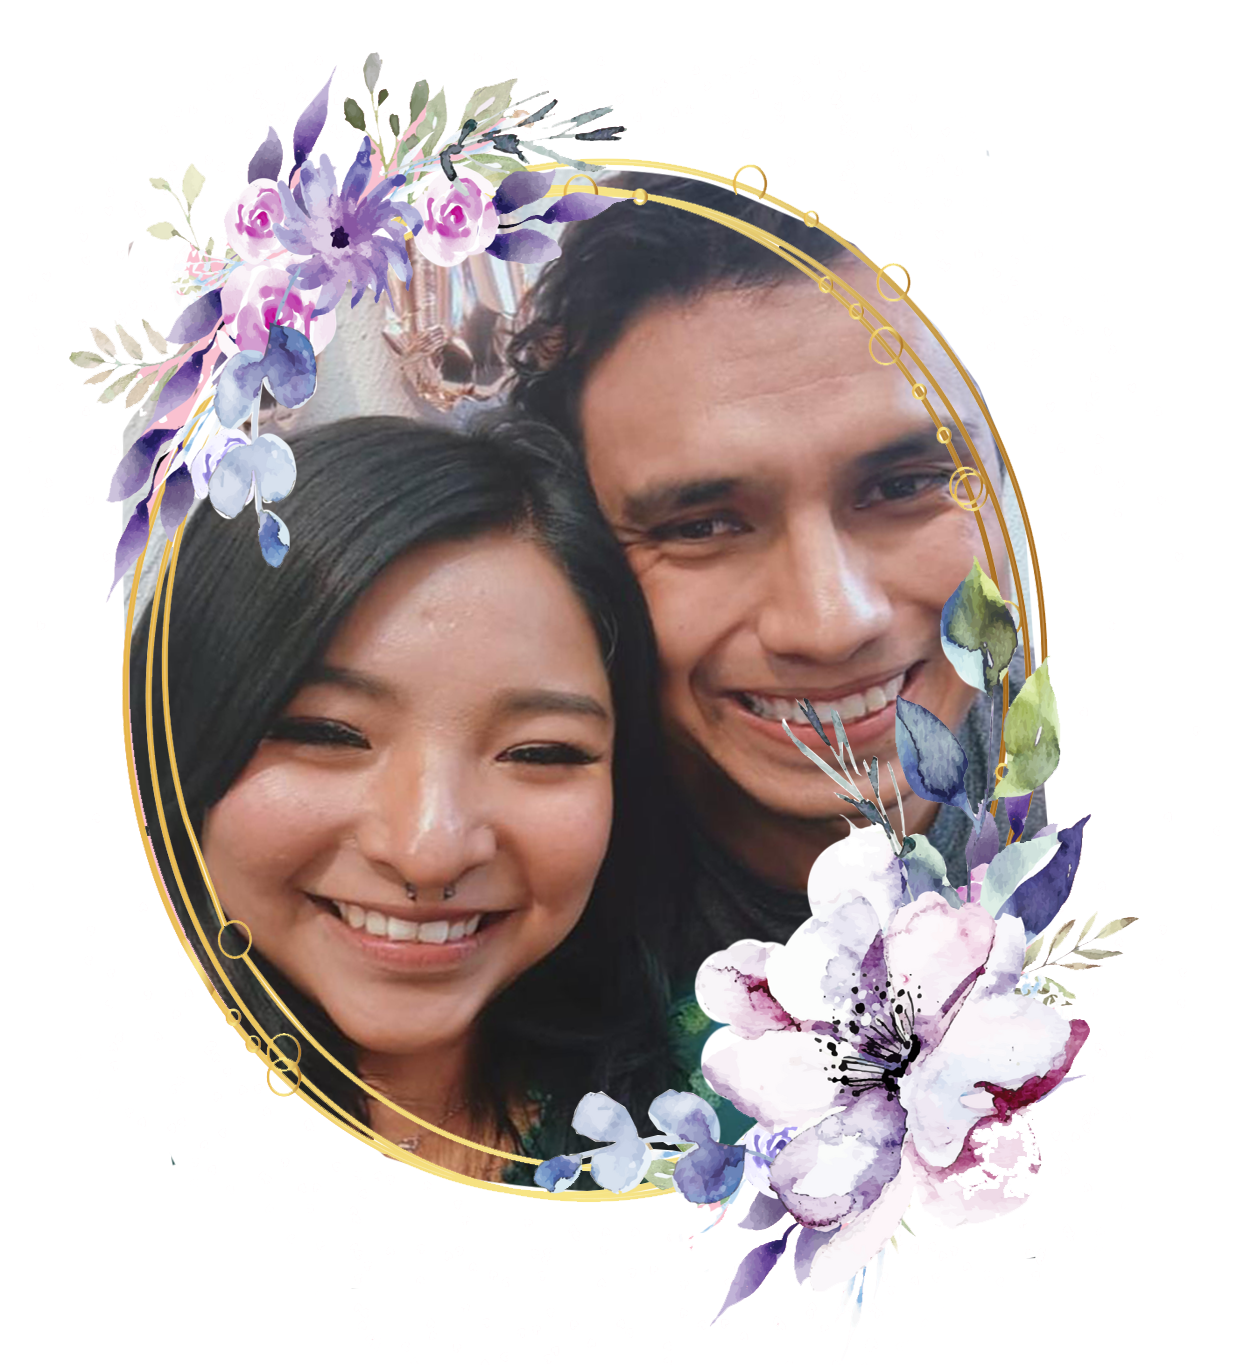
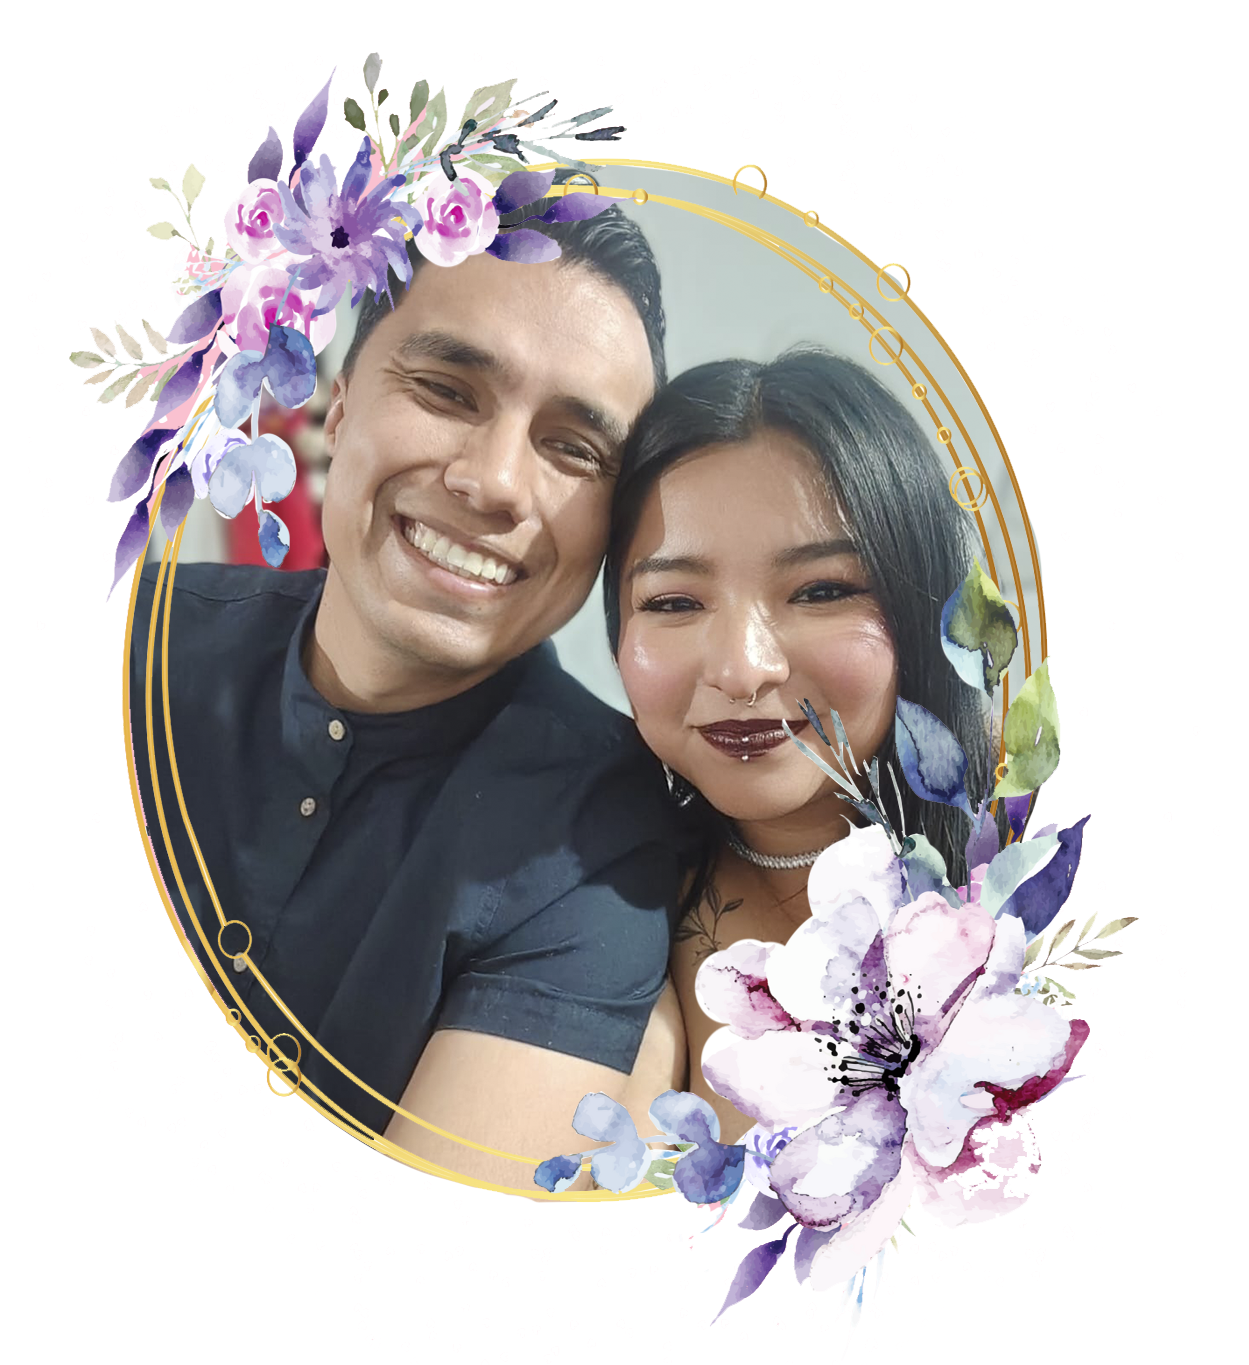
ajustes estilos

Changed region(s): [[0.0937, 0.1231, 0.8431, 0.8923], [0.562, 0.8, 0.6245, 0.8615]]

diff --git a/src/App.tsx b/src/App.tsx
@@ -184,7 +184,7 @@ function App() {
         <div className="fade-in">
           <FaMapMarkerAlt className="text-lila-dark text-5xl mx-auto mt-11" />
           <p>Jardín de eventos Azarel</p>
-          <a href="https://maps.app.goo.gl/9H9agY5havCT3Z7o7" className="block mx-auto mt-4 max-w-2/3 md:max-w-80 text-2xl lg:text-4xl">Ver ubicación</a>
+          <a href="https://maps.app.goo.gl/9H9agY5havCT3Z7o7" target="_blanc" className="block mx-auto mt-4 max-w-2/3 md:max-w-80 text-2xl lg:text-4xl">Ver ubicación</a>
         </div>
 
       </section>
@@ -198,7 +198,7 @@ function App() {
           <p className="text-lila fade-in">FORMAL</p>
 
           <h3 className="mt-20 fade-in">Sugerencia</h3>
-          <p className="text-2xl lg:text-4xl! max-w-4xl mx-auto text-lila fade-in">Amablemente, el color lila únicamente para la quinceañera</p>
+          <p className="text-2xl lg:text-4xl! max-w-4xl mx-auto text-lila fade-in font-extrabold">Amablemente, el color lila únicamente para la quinceañera</p>
         </div>
       </section>
 
@@ -227,53 +227,58 @@ function App() {
 
       <section id="padrinos" className="py-10 lg:py-16 lg:mt-12">
         <div className="mx-auto max-w-11/12 lg:max-w-5xl">
-          <h2 className="fade-in text-white! text-base/5 mb-10!">Te esperamos en compañía de...</h2>
+          <h2 className="fade-in text-white! text-base/5 mb-16!">Te esperamos en compañía de...</h2>
 
           <div className="flex flex-wrap justify-center gap-12 lg:gap-6">
 
             <figure className="fade-in flex-1/4">
-
+              <figcaption className="text-white text-4xl">Mis padres</figcaption>
               <picture>
                 <source srcSet="./marco-padres.webp" type="image/webp" />
                 <img src="./marco-padres.png" alt="Padres" className="block mx-auto mb-4" width={400} height={450} />
               </picture>
 
-              <figcaption className="text-white text-4xl">Mis padres</figcaption>
             </figure>
 
             <figure className="fade-in flex-11/12 md:flex-1/3 lg:flex-1/4">
-              <picture>
+              <figcaption className="text-white text-4xl relative lg:-right-32 hidden lg:block">Mis padrinos</figcaption>
+             
+              <picture >
                 <source srcSet="./marco-padrinos.webp" type="image/webp" />
                 <img src="./marco-padrinos.png" alt="padrinos" className="block mx-auto mb-4" width={400} height={450} />
               </picture>
-              <figcaption className="text-white text-4xl relative lg:-right-32 hidden lg:block">Mis padrinos</figcaption>
+
             </figure>
 
             <figure className="fade-in flex-11/12 md:flex-1/3 lg:flex-1/4">
-              <picture>
+              <figcaption className="text-white text-4xl lg:hidden">Mis padrinos</figcaption>
+            
+              <picture className="lg:mt-12 block">
                 <source srcSet="./marco-padrino.webp" type="image/webp" />
                 <img src="./marco-padrino.png" alt="padrino" className="block mx-auto mb-4" width={400} height={450} />
               </picture>
-              <figcaption className="text-white text-4xl lg:hidden">Mis padrinos</figcaption>
+
             </figure>
 
 
 
             <figure className="fade-in flex-11/12 md:flex-1/3 lg:flex-1/4">
+              <figcaption className="text-white text-4xl">Mi hermanita</figcaption>
               <picture>
                 <source srcSet="./marco-hermanita.webp" type="image/webp" />
                 <img src="./marco-hermanita.png" alt="hermanita" className="block mx-auto mb-4" width={400} height={450} />
               </picture>
 
-              <figcaption className="text-white text-4xl">Mi hermanita</figcaption>
+
             </figure>
 
             <figure className="fade-in flex-11/12 md:flex-1/3 lg:flex-1/4">
+              <figcaption className="text-white text-4xl">Mi abuela</figcaption>
               <picture>
                 <source srcSet="./marco-abuela.webp" type="image/webp" />
                 <img src="./marco-abuela.png" alt="abuela" className="block mx-auto mb-4" width={400} height={450} />
               </picture>
-              <figcaption className="text-white text-4xl">Mi abuela</figcaption>
+
             </figure>
 
           </div>
